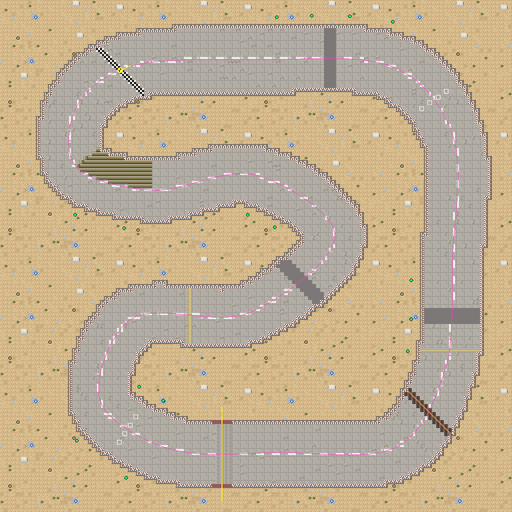
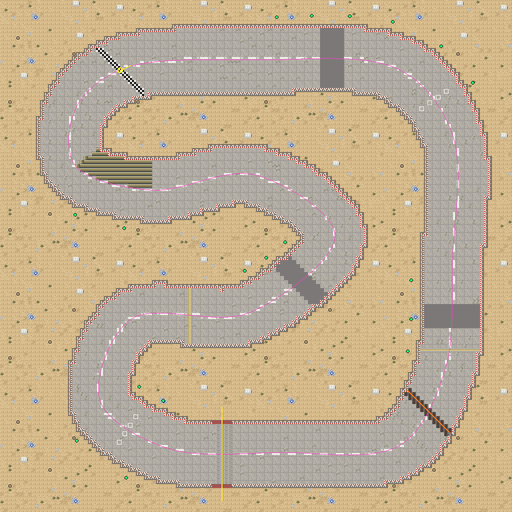
snouty-gc M7 Track B: Hangar 18's roof sheets and saucer, wider wing shadows, contact sheets

Changed region(s): [[0.625, 0.0312, 0.6875, 0.1875], [0.8125, 0.5938, 0.9375, 0.6562], [0.5312, 0.5, 0.6562, 0.5938]]

diff --git a/carts/snouty-gc/tools/packs/boneyard.py b/carts/snouty-gc/tools/packs/boneyard.py
@@ -609,14 +609,23 @@ class Hangar18Arena(PA.PackArena):
                       ("wingtip", *w(24, 24)), ("engine", *w(63, 63))]
 
     def post(self, tmap):
-        """The saucer in its crater: hull panels where the pit is deepest
-        (attribute off either way), a ring of scorch round its rim."""
+        """The saucer in its crater: hull panels over the pit's middle
+        (attribute off either way); the fallen roof's sheets on the corner
+        islands (wing panels, rivet plates)."""
         O = PA.O
         for ty in range(O + 36, O + 52):
             for tx in range(O + 36, O + 52):
                 r = math.hypot(tx - O - 43.5, ty - O - 43.5)
-                if GAP <= tmap[ty, tx] < GAP + 16 and r < 6.0:
+                if GAP <= tmap[ty, tx] < GAP + 16 and r < 6.6:
                     tmap[ty, tx] = BY_PANEL
+        for x0 in (14, 60):
+            for y0 in (14, 60):
+                for ty in range(O + y0 + 1, O + y0 + 13, 2):
+                    for tx in range(O + x0 + 1, O + x0 + 13, 2):
+                        if (tx // 2 * 7 + ty // 2 * 3) % 5 == 0:
+                            tmap[ty:ty + 2, tx:tx + 2] = np.array([[BY_WING, BY_WING + 1], [BY_WING + 2, BY_WING + 3]])
+                        else:
+                            tmap[ty:ty + 2, tx:tx + 2] = BY_PANEL
 
 
 ARENA = Hangar18Arena

diff --git a/carts/snouty-gc/tools/packs/make_packs.py b/carts/snouty-gc/tools/packs/make_packs.py
@@ -498,7 +498,14 @@ def build_pack(name, errs, review=None, report=True):
             if res is not arena:
                 preview(res, ts, rd / f"{name}_{res['stem']}_map.png")
             fr, lab = (pack_arena.mock_frames(res, ts, hz, cells) if res is arena else mock_frames(res, ts, hz, cells))
-            C.grid_of(fr, 4, 2, lab, f"{mod.TITLE}: {res['name']} (Mode 7 mock)").save(rd / f"{name}_{res['stem']}_mock.png")
+            g = C.grid_of(fr, 4, 2, lab, f"{mod.TITLE}: {res['name']} (Mode 7 mock)")
+            g.save(rd / f"{name}_{res['stem']}_mock.png")
+            # The contact sheet: the overhead map (half scale) beside the frames.
+            mp = Image.open(rev / (f"{res['stem']}_preview.png" if res is arena else f"{res['stem']}.png")).convert("RGB")
+            sheet = Image.new("RGB", (mp.width + g.width + 12, max(mp.height, g.height) + 12), C.BG)
+            sheet.paste(mp, (6, 6 + 22))
+            sheet.paste(g, (mp.width + 12, 6))
+            sheet.save(rd / f"{name}_{res['stem']}_contact.png")
     return dict(mod=mod, ts=ts, results=results, arena=arena, gcp=gcp)
 
 
